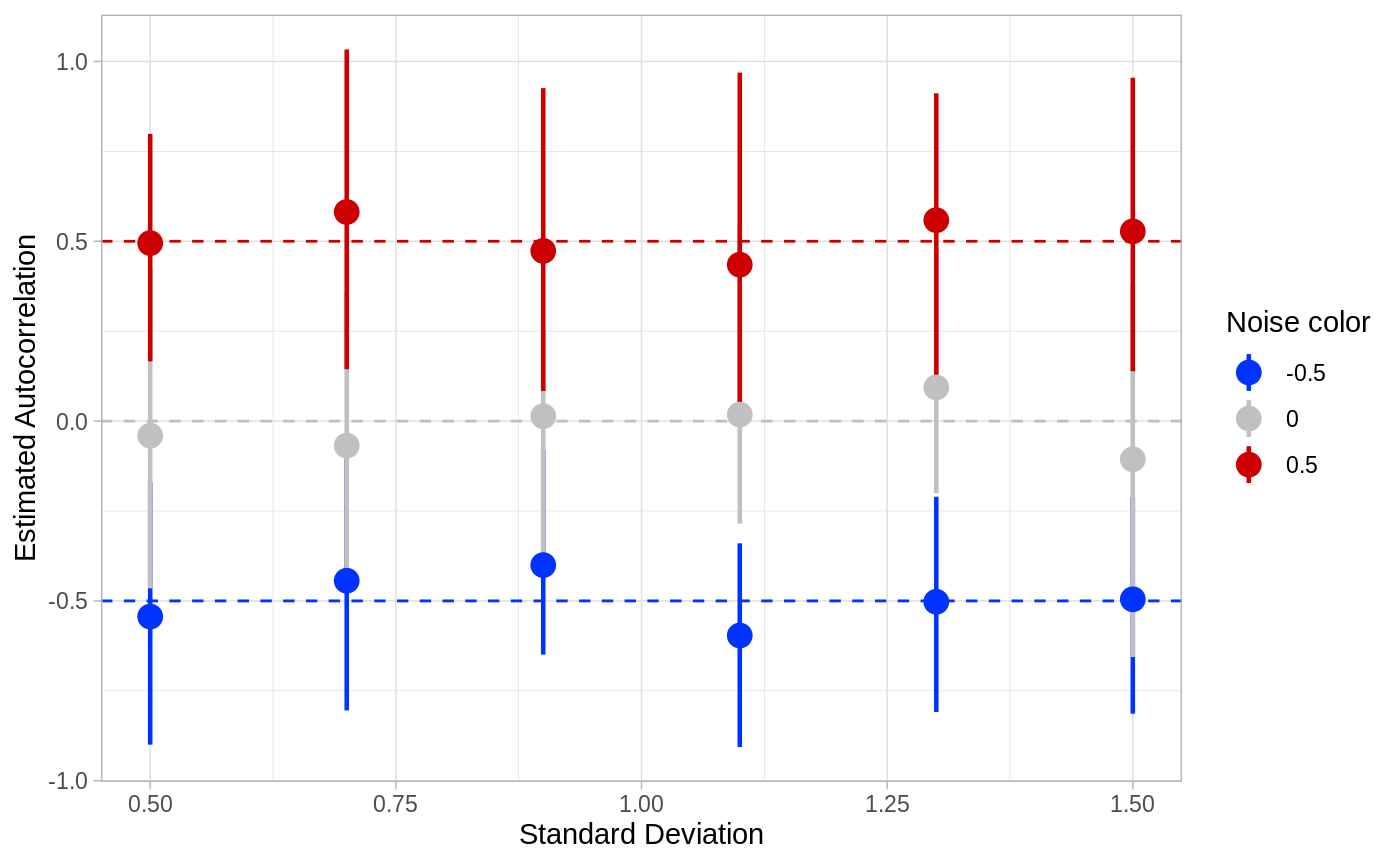
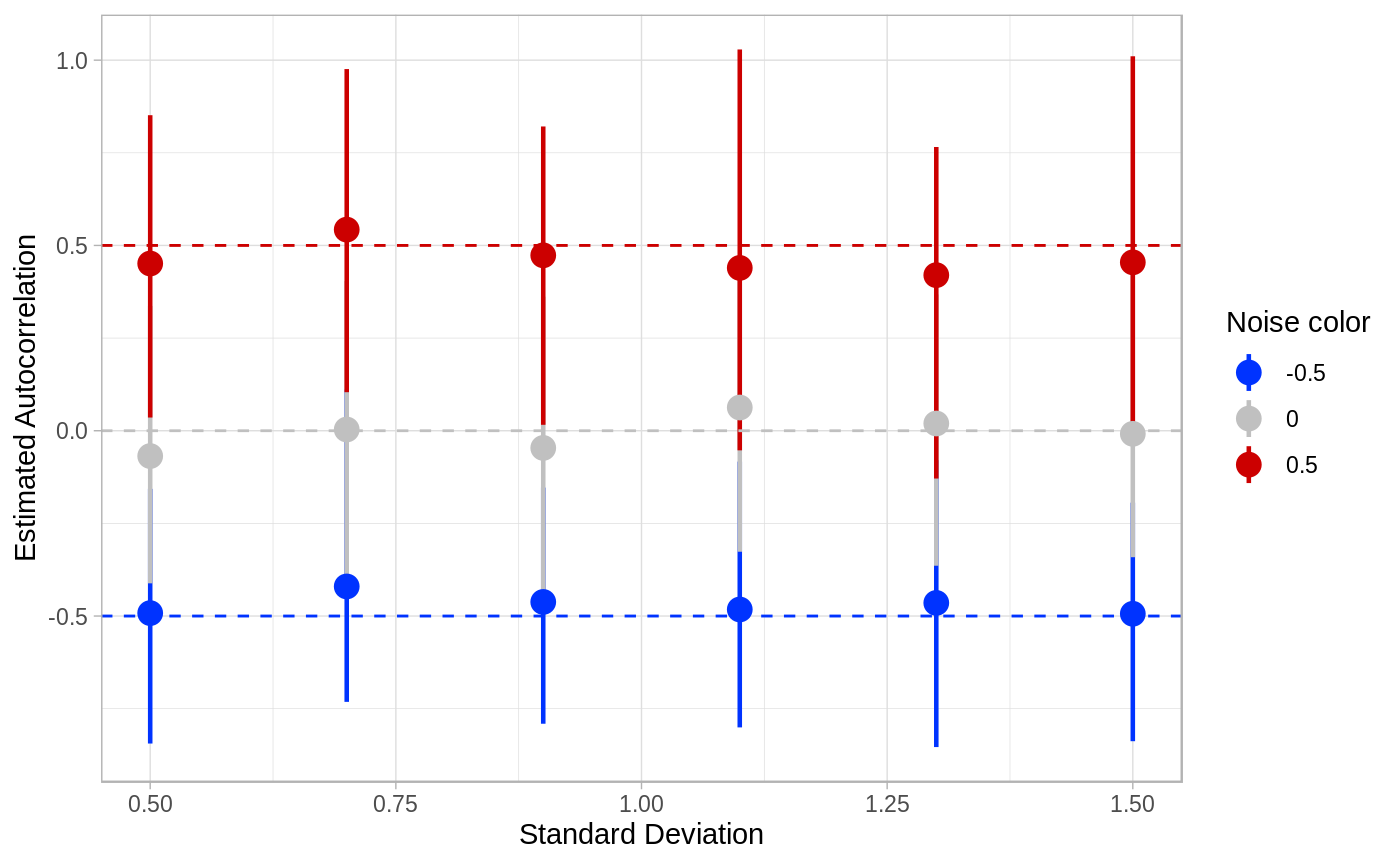
Deploy japilo/colorednoise to github.com/japilo/colorednoise.git:gh-pages

diff --git a/articles/noise.html b/articles/noise.html
@@ -111,12 +111,12 @@
 <p>To show you how you can use this package to simulate and analyze colored noise, I will present a problem for us to solve. Let’s say we want to find out whether our estimates of temporal autocorrelation are biased when the standard deviation of the colored noise is high. First, let’s use the <code>raw_noise</code> function to generate some colored noise with high variance.</p>
 <div class="sourceCode" id="cb1"><pre class="sourceCode r"><code class="sourceCode r"><a class="sourceLine" id="cb1-1" data-line-number="1">red &lt;-<span class="st"> </span><span class="kw">colored_noise</span>(<span class="dt">timesteps =</span> <span class="dv">100</span>, <span class="dt">mean =</span> <span class="fl">0.3</span>, <span class="dt">sd =</span> <span class="fl">1.2</span>, <span class="dt">phi =</span> <span class="fl">0.5</span>)</a>
 <a class="sourceLine" id="cb1-2" data-line-number="2">red[<span class="dv">1</span><span class="op">:</span><span class="dv">10</span>]</a>
-<a class="sourceLine" id="cb1-3" data-line-number="3"><span class="co">#&gt;  [1] -0.4128309  0.3740555  2.3462258 -0.4782733 -2.3997157 -0.5530814</span></a>
-<a class="sourceLine" id="cb1-4" data-line-number="4"><span class="co">#&gt;  [7]  0.7971725  0.3067161  0.1331564 -0.5769632</span></a>
+<a class="sourceLine" id="cb1-3" data-line-number="3"><span class="co">#&gt;  [1]  1.5492142 -0.2536527  0.1612202  0.1424748 -0.1733372  0.8431308</span></a>
+<a class="sourceLine" id="cb1-4" data-line-number="4"><span class="co">#&gt;  [7]  0.6632815  0.5522708  0.6367477 -1.5217273</span></a>
 <a class="sourceLine" id="cb1-5" data-line-number="5">blue &lt;-<span class="st"> </span><span class="kw">colored_noise</span>(<span class="dt">timesteps =</span> <span class="dv">100</span>, <span class="dt">mean =</span> <span class="fl">0.3</span>, <span class="dt">sd =</span> <span class="fl">1.2</span>, <span class="dt">phi =</span> <span class="fl">-0.5</span>)</a>
 <a class="sourceLine" id="cb1-6" data-line-number="6">blue[<span class="dv">1</span><span class="op">:</span><span class="dv">10</span>]</a>
-<a class="sourceLine" id="cb1-7" data-line-number="7"><span class="co">#&gt;  [1] -1.7961986  0.2440772  1.2003466 -0.2309082  2.2034772 -1.8961641</span></a>
-<a class="sourceLine" id="cb1-8" data-line-number="8"><span class="co">#&gt;  [7]  2.6670834 -1.2525418  0.6461422  0.2386832</span></a>
+<a class="sourceLine" id="cb1-7" data-line-number="7"><span class="co">#&gt;  [1] -0.25991365 -0.98843220  1.79937042 -0.03936164 -0.16248609</span></a>
+<a class="sourceLine" id="cb1-8" data-line-number="8"><span class="co">#&gt;  [6]  0.94285572 -0.65506075  1.59745871 -0.29003226  3.81965435</span></a>
 <a class="sourceLine" id="cb1-9" data-line-number="9"><span class="kw">ggplot</span>(<span class="dt">data =</span> <span class="ot">NULL</span>, <span class="kw">aes</span>(<span class="dt">x =</span> <span class="kw"><a href="https://rdrr.io/r/base/c.html">c</a></span>(<span class="dv">1</span><span class="op">:</span><span class="dv">100</span>), <span class="dt">y =</span> blue)) <span class="op">+</span><span class="st"> </span><span class="kw">geom_line</span>(<span class="dt">color=</span><span class="st">"blue"</span>) <span class="op">+</span><span class="st"> </span><span class="kw">theme_minimal</span>() <span class="op">+</span><span class="st"> </span><span class="kw">theme</span>(<span class="dt">axis.title =</span> <span class="kw">element_blank</span>()) <span class="op">+</span><span class="st"> </span><span class="kw">ggtitle</span>(<span class="st">"Blue Noise"</span>)</a></code></pre></div>
 <p><img src="noise_files/figure-html/generate%20noise-1.png" width="700"></p>
 <div class="sourceCode" id="cb2"><pre class="sourceCode r"><code class="sourceCode r"><a class="sourceLine" id="cb2-1" data-line-number="1"><span class="kw">ggplot</span>(<span class="dt">data =</span> <span class="ot">NULL</span>, <span class="kw">aes</span>(<span class="dt">x =</span> <span class="kw"><a href="https://rdrr.io/r/base/c.html">c</a></span>(<span class="dv">1</span><span class="op">:</span><span class="dv">100</span>), <span class="dt">y =</span> red)) <span class="op">+</span><span class="st"> </span><span class="kw">geom_line</span>(<span class="dt">color=</span><span class="st">"red"</span>) <span class="op">+</span><span class="st"> </span><span class="kw">theme_minimal</span>() <span class="op">+</span><span class="st"> </span><span class="kw">theme</span>(<span class="dt">axis.title =</span> <span class="kw">element_blank</span>()) <span class="op">+</span><span class="st"> </span><span class="kw">ggtitle</span>(<span class="st">"Red Noise"</span>)</a></code></pre></div>
@@ -124,22 +124,22 @@
 <p>The red noise and blue noise look the way they should. Now let’s estimate the mean, SD, and autocorrelation of these two sets of random numbers to see how well they match the parameters we used to generate them.</p>
 <div class="sourceCode" id="cb3"><pre class="sourceCode r"><code class="sourceCode r"><a class="sourceLine" id="cb3-1" data-line-number="1"><span class="kw">invoke_map</span>(<span class="kw"><a href="https://rdrr.io/r/base/list.html">list</a></span>(mean, sd, autocorrelation), <span class="kw"><a href="https://rdrr.io/r/base/rep.html">rep</a></span>(<span class="kw"><a href="https://rdrr.io/r/base/list.html">list</a></span>(<span class="kw"><a href="https://rdrr.io/r/base/list.html">list</a></span>(red)), <span class="dv">3</span>))</a>
 <a class="sourceLine" id="cb3-2" data-line-number="2"><span class="co">#&gt; [[1]]</span></a>
-<a class="sourceLine" id="cb3-3" data-line-number="3"><span class="co">#&gt; [1] -0.01685352</span></a>
+<a class="sourceLine" id="cb3-3" data-line-number="3"><span class="co">#&gt; [1] 0.1502545</span></a>
 <a class="sourceLine" id="cb3-4" data-line-number="4"><span class="co">#&gt; </span></a>
 <a class="sourceLine" id="cb3-5" data-line-number="5"><span class="co">#&gt; [[2]]</span></a>
-<a class="sourceLine" id="cb3-6" data-line-number="6"><span class="co">#&gt; [1] 1.222884</span></a>
+<a class="sourceLine" id="cb3-6" data-line-number="6"><span class="co">#&gt; [1] 1.127334</span></a>
 <a class="sourceLine" id="cb3-7" data-line-number="7"><span class="co">#&gt; </span></a>
 <a class="sourceLine" id="cb3-8" data-line-number="8"><span class="co">#&gt; [[3]]</span></a>
-<a class="sourceLine" id="cb3-9" data-line-number="9"><span class="co">#&gt; [1] 0.4688083</span></a>
+<a class="sourceLine" id="cb3-9" data-line-number="9"><span class="co">#&gt; [1] 0.5458427</span></a>
 <a class="sourceLine" id="cb3-10" data-line-number="10"><span class="kw">invoke_map</span>(<span class="kw"><a href="https://rdrr.io/r/base/list.html">list</a></span>(mean, sd, autocorrelation), <span class="kw"><a href="https://rdrr.io/r/base/rep.html">rep</a></span>(<span class="kw"><a href="https://rdrr.io/r/base/list.html">list</a></span>(<span class="kw"><a href="https://rdrr.io/r/base/list.html">list</a></span>(blue)), <span class="dv">3</span>))</a>
 <a class="sourceLine" id="cb3-11" data-line-number="11"><span class="co">#&gt; [[1]]</span></a>
-<a class="sourceLine" id="cb3-12" data-line-number="12"><span class="co">#&gt; [1] 0.3438398</span></a>
+<a class="sourceLine" id="cb3-12" data-line-number="12"><span class="co">#&gt; [1] 0.3440357</span></a>
 <a class="sourceLine" id="cb3-13" data-line-number="13"><span class="co">#&gt; </span></a>
 <a class="sourceLine" id="cb3-14" data-line-number="14"><span class="co">#&gt; [[2]]</span></a>
-<a class="sourceLine" id="cb3-15" data-line-number="15"><span class="co">#&gt; [1] 1.079309</span></a>
+<a class="sourceLine" id="cb3-15" data-line-number="15"><span class="co">#&gt; [1] 1.225774</span></a>
 <a class="sourceLine" id="cb3-16" data-line-number="16"><span class="co">#&gt; </span></a>
 <a class="sourceLine" id="cb3-17" data-line-number="17"><span class="co">#&gt; [[3]]</span></a>
-<a class="sourceLine" id="cb3-18" data-line-number="18"><span class="co">#&gt; [1] -0.4678498</span></a></code></pre></div>
+<a class="sourceLine" id="cb3-18" data-line-number="18"><span class="co">#&gt; [1] -0.5450679</span></a></code></pre></div>
 <p>The estimates for these seem to be quite accurate. But let’s try generating a whole lot of colored noise across a range of variance and color and estimating the autocorrelation of each replicate.</p>
 <div class="sourceCode" id="cb4"><pre class="sourceCode r"><code class="sourceCode r"><a class="sourceLine" id="cb4-1" data-line-number="1">raw_sims &lt;-<span class="st"> </span><span class="kw">cross_df</span>(<span class="kw"><a href="https://rdrr.io/r/base/list.html">list</a></span>(<span class="dt">timesteps =</span> <span class="dv">20</span>, <span class="dt">phi =</span> <span class="kw"><a href="https://rdrr.io/r/base/c.html">c</a></span>(<span class="op">-</span><span class="fl">0.5</span>, <span class="dv">0</span>, <span class="fl">0.5</span>), <span class="dt">mean =</span> <span class="fl">0.3</span>, <span class="dt">sd =</span> <span class="kw"><a href="https://rdrr.io/r/base/c.html">c</a></span>(<span class="fl">0.5</span>, <span class="fl">0.7</span>, <span class="fl">0.9</span>, <span class="fl">1.1</span>, <span class="fl">1.3</span>, <span class="fl">1.5</span>))) <span class="op">%&gt;%</span><span class="st"> </span><span class="kw">rerun</span>(<span class="dt">.n =</span> <span class="dv">30</span>, <span class="kw">pmap</span>(., colored_noise))</a>
 <a class="sourceLine" id="cb4-2" data-line-number="2">labels &lt;-<span class="st"> </span>raw_sims <span class="op">%&gt;%</span><span class="st"> </span><span class="kw">map</span>(<span class="dv">1</span>) <span class="op">%&gt;%</span><span class="st"> </span><span class="kw">bind_rows</span>()</a>
@@ -147,13 +147,13 @@
 <a class="sourceLine" id="cb4-4" data-line-number="4">estimates &lt;-<span class="st"> </span><span class="kw"><a href="https://rdrr.io/r/base/data.frame.html">data.frame</a></span>(<span class="dt">mu =</span> <span class="kw">map_dbl</span>(noise, mean), <span class="dt">sigma =</span> <span class="kw">map_dbl</span>(noise, sd), <span class="dt">autocorrelation =</span> <span class="kw">map_dbl</span>(noise, autocorrelation))</a>
 <a class="sourceLine" id="cb4-5" data-line-number="5">sd_range &lt;-<span class="st"> </span><span class="kw"><a href="https://rdrr.io/r/base/cbind.html">cbind</a></span>(labels, estimates)</a>
 <a class="sourceLine" id="cb4-6" data-line-number="6"><span class="kw"><a href="https://rdrr.io/r/utils/head.html">head</a></span>(sd_range)</a>
-<a class="sourceLine" id="cb4-7" data-line-number="7"><span class="co">#&gt;   timesteps  phi mean  sd        mu     sigma autocorrelation</span></a>
-<a class="sourceLine" id="cb4-8" data-line-number="8"><span class="co">#&gt; 1        20 -0.5  0.3 0.5 0.2021481 0.4860601      -0.5084453</span></a>
-<a class="sourceLine" id="cb4-9" data-line-number="9"><span class="co">#&gt; 2        20  0.0  0.3 0.5 0.3589444 0.5715829      -0.2615903</span></a>
-<a class="sourceLine" id="cb4-10" data-line-number="10"><span class="co">#&gt; 3        20  0.5  0.3 0.5 0.3297453 0.4654824       0.3720400</span></a>
-<a class="sourceLine" id="cb4-11" data-line-number="11"><span class="co">#&gt; 4        20 -0.5  0.3 0.7 0.2689092 0.4860833      -0.2072187</span></a>
-<a class="sourceLine" id="cb4-12" data-line-number="12"><span class="co">#&gt; 5        20  0.0  0.3 0.7 0.2116815 0.7682148       0.5764725</span></a>
-<a class="sourceLine" id="cb4-13" data-line-number="13"><span class="co">#&gt; 6        20  0.5  0.3 0.7 0.2700550 0.3317652       0.3436993</span></a></code></pre></div>
+<a class="sourceLine" id="cb4-7" data-line-number="7"><span class="co">#&gt;   timesteps  phi mean  sd          mu     sigma autocorrelation</span></a>
+<a class="sourceLine" id="cb4-8" data-line-number="8"><span class="co">#&gt; 1        20 -0.5  0.3 0.5  0.19067008 0.4348091     -0.13490286</span></a>
+<a class="sourceLine" id="cb4-9" data-line-number="9"><span class="co">#&gt; 2        20  0.0  0.3 0.5  0.30546806 0.4956193     -0.05689467</span></a>
+<a class="sourceLine" id="cb4-10" data-line-number="10"><span class="co">#&gt; 3        20  0.5  0.3 0.5  0.23641296 0.4437269      0.20737521</span></a>
+<a class="sourceLine" id="cb4-11" data-line-number="11"><span class="co">#&gt; 4        20 -0.5  0.3 0.7  0.24779894 0.7605528     -0.59557098</span></a>
+<a class="sourceLine" id="cb4-12" data-line-number="12"><span class="co">#&gt; 5        20  0.0  0.3 0.7  0.10744876 0.5949510      0.45470034</span></a>
+<a class="sourceLine" id="cb4-13" data-line-number="13"><span class="co">#&gt; 6        20  0.5  0.3 0.7 -0.04189683 0.5630002      0.11675829</span></a></code></pre></div>
 <p>We can visualize these results by finding the mean and confidence intervals of the autocorrelation estimates for each combination of variance and noise color, and plotting them out.</p>
 <div class="sourceCode" id="cb5"><pre class="sourceCode r"><code class="sourceCode r"><a class="sourceLine" id="cb5-1" data-line-number="1">sd_range <span class="op">%&gt;%</span><span class="st"> </span><span class="kw">group_by</span>(phi, sd) <span class="op">%&gt;%</span><span class="st"> </span><span class="kw">summarize_at</span>(<span class="kw">funs</span>(<span class="dt">lower.ci =</span> ((<span class="cf">function</span>(bar){<span class="kw"><a href="https://rdrr.io/r/stats/quantile.html">quantile</a></span>(bar, <span class="dt">probs=</span><span class="kw"><a href="https://rdrr.io/r/base/c.html">c</a></span>(<span class="fl">0.05</span>, <span class="fl">0.95</span>))[[<span class="dv">1</span>]]})(.)),</a>
 <a class="sourceLine" id="cb5-2" data-line-number="2">           <span class="dt">upper.ci =</span> ((<span class="cf">function</span>(bar){<span class="kw"><a href="https://rdrr.io/r/stats/quantile.html">quantile</a></span>(bar, <span class="dt">probs=</span><span class="kw"><a href="https://rdrr.io/r/base/c.html">c</a></span>(<span class="fl">0.05</span>, <span class="fl">0.95</span>))[[<span class="dv">2</span>]]})(.)),</a>
